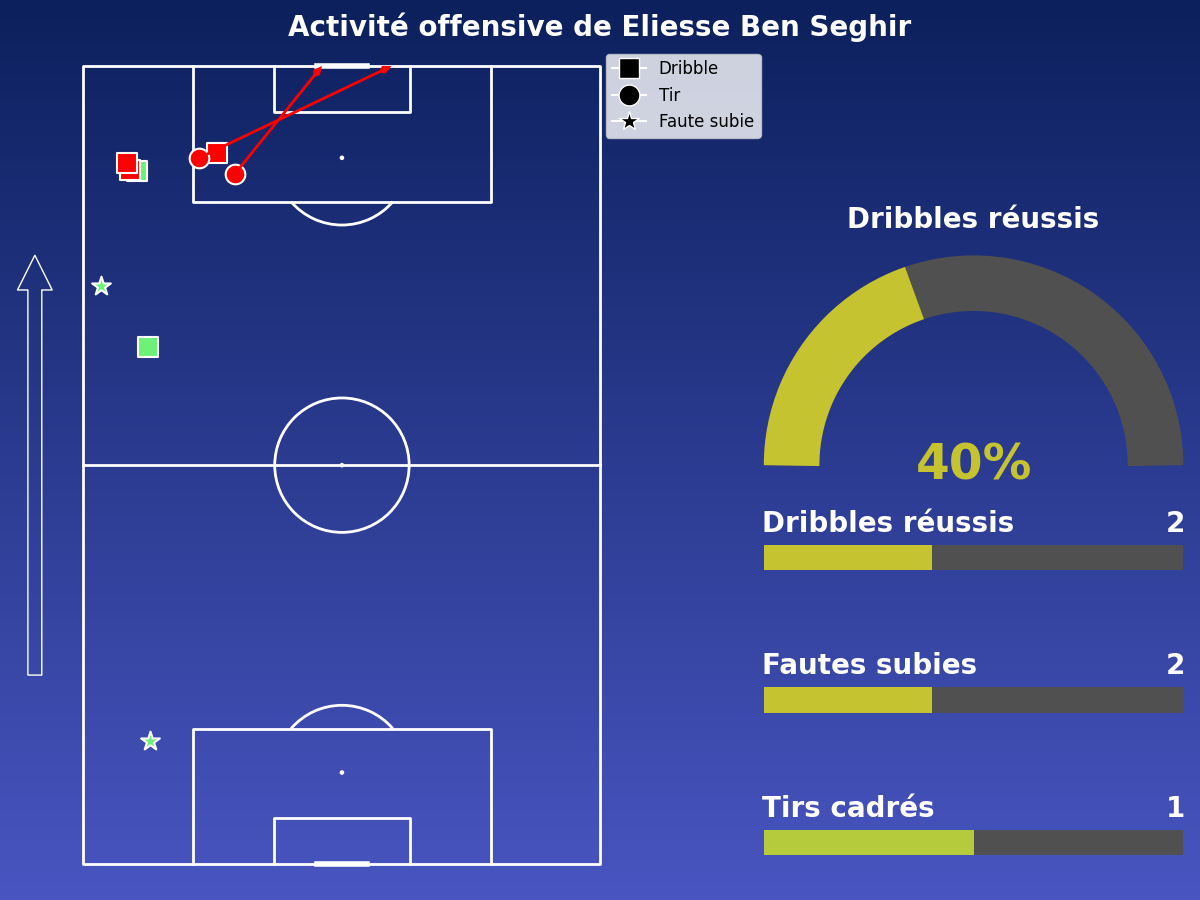
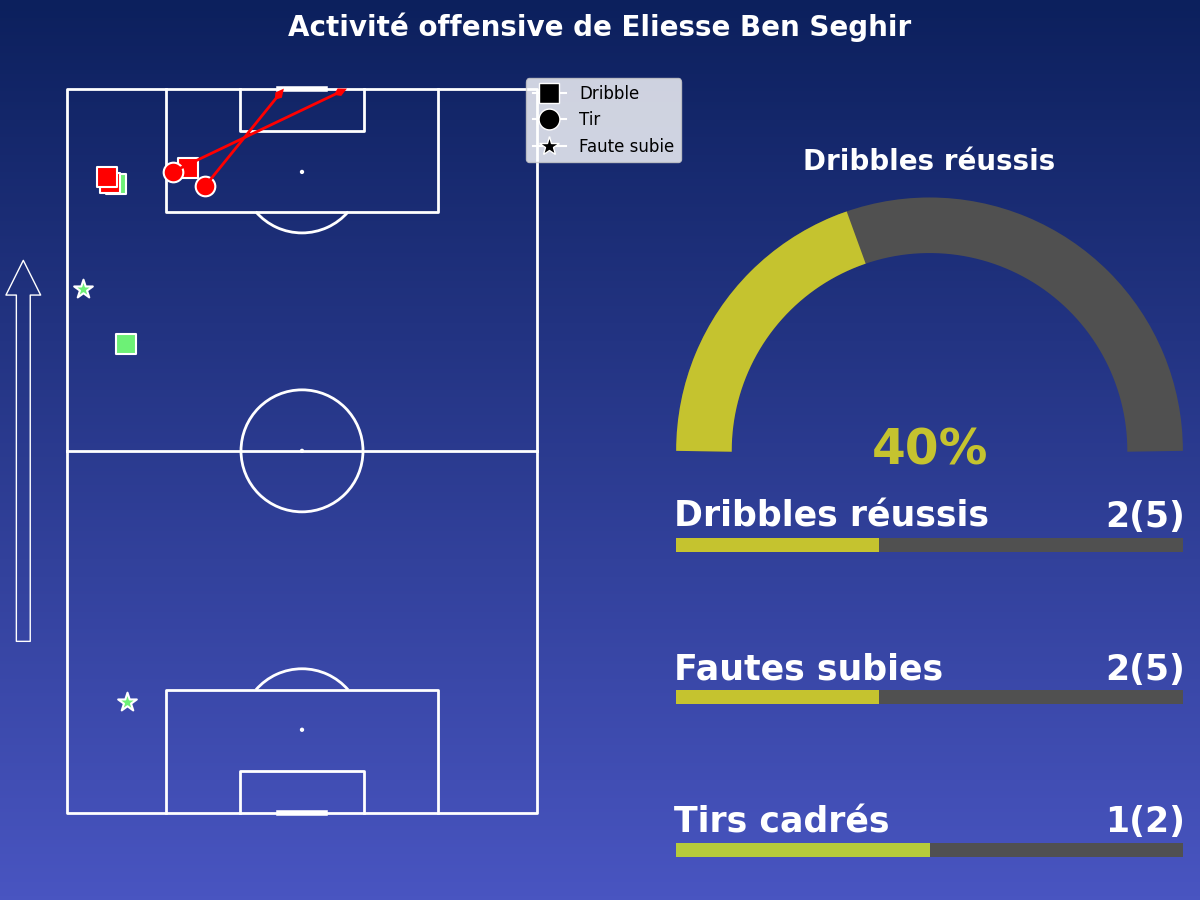
MAJ - ok

diff --git a/src/player_visualizer.py b/src/player_visualizer.py
@@ -49,12 +49,54 @@ class PlayerVisualizer:
         events = self.player_data.get('events', [])
         passes = [event for event in events if event['type']['displayName'] == 'Pass']
 
-        if not passes:
-            print(f"Pas de passes trouvées pour {self.player_data['player_name']}. Aucun visuel généré.")
-            return
-
+        #if not passes:
+        #    print(f"Pas de passes trouvées pour {self.player_data['player_name']}. Aucun visuel généré.")
+        #    return
         forward_passes, lateral_passes, backward_passes, successful_passes, failed_passes = self._classify_passes(passes)
         total_passes = len(passes)
+
+        # Filtrage des événements offensifs
+        offensive_events = [
+            event for event in events if event['type']['displayName'] in ['TakeOn', 'MissedShots', 'SavedShot', 'Goal', 'Foul']
+        ]
+
+        #if not offensive_events:
+        #    print(f"Aucune activité offensive trouvée pour {self.player_data['player_name']}. Aucun visuel généré.")
+        #    return
+
+        # Compter les événements offensifs par type
+        takeons = [event for event in offensive_events if event['type']['displayName'] == 'TakeOn']
+        successful_takeons = [event for event in takeons if event.get('outcomeType', {}).get('displayName') == 'Successful']
+
+        missed_shots = [event for event in offensive_events if event['type']['displayName'] == 'MissedShots']
+        saved_shots = [event for event in offensive_events if event['type']['displayName'] == 'SavedShot']
+        goals = [event for event in offensive_events if event['type']['displayName'] == 'Goal']
+
+        fouls = [event for event in offensive_events if event['type']['displayName'] == 'Foul']
+        submitted_fouls = [event for event in fouls if event.get('outcomeType', {}).get('displayName') == 'Unsuccessful']
+
+
+        # Filtrage des événements défensifs
+        defensive_events = [
+            event for event in events if event['type']['displayName'] in ['BallRecovery', 'Challenge', 'Tackle', 'Foul']
+        ]
+
+        #if not defensive_events:
+        #    print(f"Aucune activité défensive trouvée pour {self.player_data['player_name']}. Aucun visuel généré.")
+        #    return
+
+        # Compter les événements défensifs par type
+        ball_recoveries = [event for event in defensive_events if event['type']['displayName'] == 'BallRecovery']
+        successful_ball_recoveries = [event for event in ball_recoveries if event.get('outcomeType', {}).get('displayName') == 'Successful']
+
+        challenges = [event for event in defensive_events if event['type']['displayName'] == 'Challenge']
+        successful_challenges = [event for event in challenges if event.get('outcomeType', {}).get('displayName') == 'Successful']
+
+        tackles = [event for event in defensive_events if event['type']['displayName'] == 'Tackle']
+        successful_tackles = [event for event in tackles if event.get('outcomeType', {}).get('displayName') == 'Successful']
+
+        fouls = [event for event in defensive_events if event['type']['displayName'] == 'Foul']
+        committed_fouls = [event for event in fouls if event.get('outcomeType', {}).get('displayName') == 'Successful']
 
         # Choisir les deux couleurs en hexadecimal
         color1 = "#0c205d"  # Bleu foncé
@@ -82,9 +124,26 @@ class PlayerVisualizer:
         # Creating a grid to place data visualizations on the first line and pitches on the second line
         gs = GridSpec(7, 2,  height_ratios=[1,1,1,1,4,4,4])
 
-        # Right side (0,1) with a semi-circular gauge and additional bar charts (like in the image)
-        #ax_gauge = fig.add_subplot(gs[0, 1], polar=True)
-        #self._plot_semi_circular_gauge(ax_gauge, "Récupérations réussies", 100, 100)
+        # Load the player photo
+        image_path = "data/player_photo.jpeg"  # Path to the player's photo
+        player_photo = mpimg.imread(image_path)
+
+        # Display player photo in the (0,0) position
+        ax_image = fig.add_subplot(gs[:4, 0])
+        ax_image.imshow(player_photo, aspect='equal')  # Ensure the aspect ratio of the image is maintained
+        ax_image.set_anchor('W')  # Align the image to the left side
+        ax_image.axis('off')  # Hide the axes for the image
+
+        # Adding the player's name (or any text) on the right side of the image
+        ax.text(0.28, 0.96, f"{self.player_data['player_name']}", fontsize=20, color='white', fontweight='bold', ha='left', transform=ax.transAxes)
+        ax.text(0.28, 0.93, f"{self.player_data['age']} ans - {self.player_data['height']}cm", fontsize=20, color='white', fontweight='bold', ha='left', transform=ax.transAxes)
+        ax.text(0.28, 0.90, f"{self.player_data['position']} - {self.player_data['shirtNo']}", fontsize=20, color='white', fontweight='bold', ha='left', transform=ax.transAxes)
+        ax.text(0.28, 0.87, f"X buts", fontsize=20, color='white', fontweight='bold', ha='left', transform=ax.transAxes)
+        ax.text(0.28, 0.84, f"Y passes décisives", fontsize=20, color='white', fontweight='bold', ha='left', transform=ax.transAxes)
+        ax.text(0.28, 0.81, f"Man of the match", fontsize=20, color='white', fontweight='bold', ha='left', transform=ax.transAxes)
+
+        ax.text(0.38, 0.72, f"@MaData_fr", fontsize=20, color='white', fontweight='bold', ha='left', transform=ax.transAxes)
+
 
         # Horizontal bars for forward, lateral, and backward passes
         ax_bar1 = fig.add_subplot(gs[0, 1])
@@ -92,10 +151,10 @@ class PlayerVisualizer:
         ax_bar3 = fig.add_subplot(gs[2, 1])
         ax_bar4 = fig.add_subplot(gs[3, 1])
     
-        self._add_horizontal_bar(ax_bar1, 'Dribbles réussies', len(forward_passes), total_passes)
-        self._add_horizontal_bar(ax_bar2, 'Tirs cadrés', len(lateral_passes), total_passes)
-        self._add_horizontal_bar(ax_bar3, 'Fautes subies', len(backward_passes), total_passes)
-        self._add_horizontal_bar(ax_bar4, 'Récuperations', len(backward_passes), total_passes)
+        self._add_horizontal_bar(ax_bar1, 'Dribbles réussies', len(successful_takeons), len(takeons))
+        self._add_horizontal_bar(ax_bar2, 'Tirs cadrés', len(saved_shots), len(missed_shots) + len(saved_shots) + len(goals))
+        self._add_horizontal_bar(ax_bar3, 'Fautes subies', len(submitted_fouls), len(takeons))
+        self._add_horizontal_bar(ax_bar4, 'Récuperations', len(successful_ball_recoveries), len(ball_recoveries))
 
         # 2. Plotting the pitches on the second row
 
@@ -111,7 +170,7 @@ class PlayerVisualizer:
             x_end = pas['endY']
 
             color = '#6DF176' if pas['outcomeType']['displayName'] == 'Successful' else 'red'
-            pitch.arrows(y_start, x_start, y_end, x_end, width=2, headwidth=3, headlength=3, color=color, ax=ax_pitch_left)
+            pitch.arrows(y_start, x_start, y_end, x_end, width=3, headwidth=3, headlength=3, color=color, ax=ax_pitch_left)
             
         # 3. Plotting the second pitch (right) with heatmap on the second row
         ax_pitch_right = fig.add_subplot(gs[4:, 1], aspect=1)
@@ -287,7 +346,7 @@ class PlayerVisualizer:
         ax.text(-0.005, 0.6, label, va='center', ha='left', fontsize=25, color='white', fontweight='bold', transform=ax.transAxes)  # Position de l'étiquette à gauche
 
         # Ajouter la valeur à droite de la barre (très proche de la barre)
-        ax.text(1.005, 0.6, f'{value}', va='center', ha='right', fontsize=25, color='white', fontweight='bold', transform=ax.transAxes)  # Position de la valeur à droite
+        ax.text(1.005, 0.6, f'{value}({max_value})', va='center', ha='right', fontsize=25, color='white', fontweight='bold', transform=ax.transAxes)  # Position de la valeur à droite
 
         # Supprimer les axes
         ax.set_xlim(0, 1)
@@ -543,7 +602,7 @@ class PlayerVisualizer:
         ax.imshow(gradient, aspect='auto', cmap=cmap, extent=[0, 1, 0, 1])
 
         # Création d'une grille pour placer le terrain à gauche et les visualisations à droite
-        gs = GridSpec(6, 2, width_ratios=[3, 2])  # 6 rangées, 2 colonnes (rapport 3:1)
+        gs = GridSpec(6, 2, width_ratios=[2, 2])  # 6 rangées, 2 colonnes (rapport 3:1)
 
         # 1. Tracé du terrain à gauche
         pitch = VerticalPitch(pitch_type='opta', pitch_color='none', line_color='white', linewidth=2)
@@ -654,7 +713,7 @@ class PlayerVisualizer:
         ax.imshow(gradient, aspect='auto', cmap=cmap, extent=[0, 1, 0, 1])
 
         # Création d'une grille pour placer le terrain à gauche et les visualisations à droite
-        gs = GridSpec(6, 2, width_ratios=[3, 2])  # 6 rangées, 2 colonnes (rapport 3:1)
+        gs = GridSpec(6, 2, width_ratios=[2, 2])  # 6 rangées, 2 colonnes (rapport 3:1)
 
         # 1. Tracé du terrain à gauche
         pitch = VerticalPitch(pitch_type='opta', pitch_color='none', line_color='white', linewidth=2)

diff --git a/src/main.py b/src/main.py
@@ -20,10 +20,10 @@ def main(url, player_name):
     save_path_offensive_goal = os.path.join(save_dir, f'{player_name.replace(" ", "_")}_offensive_activity_goal.png')
     save_path_activity = os.path.join(save_dir, f'{player_name.replace(" ", "_")}_activity_goal.png')
 
-    #visualizer.plot_passes_and_bar_charts(save_path_passes)
+    visualizer.plot_passes_and_bar_charts(save_path_passes)
     #visualizer.plot_stats_visualizations(save_path_stats)
-    #visualizer.plot_defensive_activity(save_path_defensive)
-    #visualizer.plot_offensive_activity(save_path_offensive_pitch, save_path_offensive_goal)
+    visualizer.plot_defensive_activity(save_path_defensive)
+    visualizer.plot_offensive_activity(save_path_offensive_pitch, save_path_offensive_goal)
     visualizer.plot_passes_heatmap_and_bar_charts(save_path_activity)
 
 if __name__ == "__main__":
